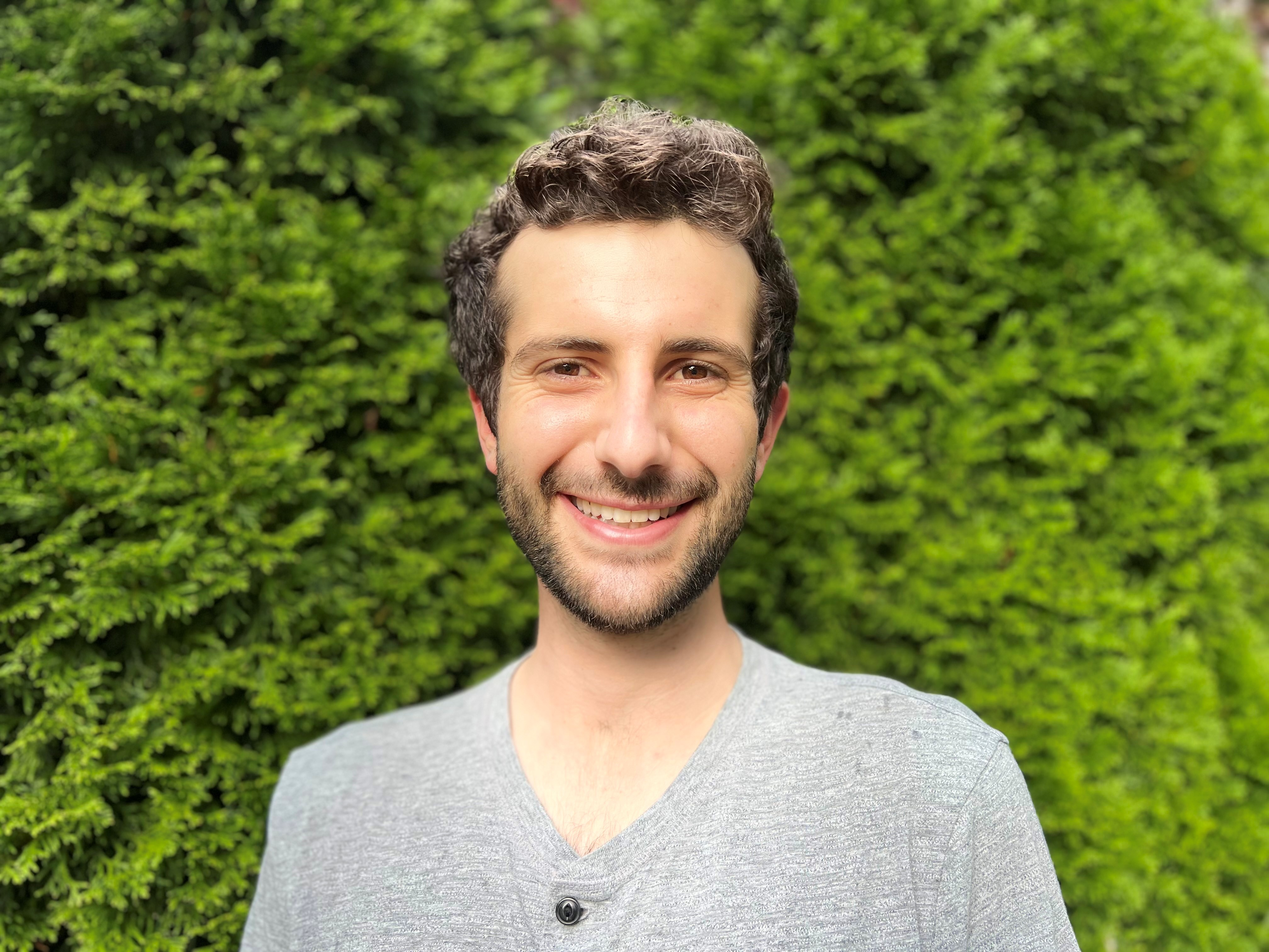
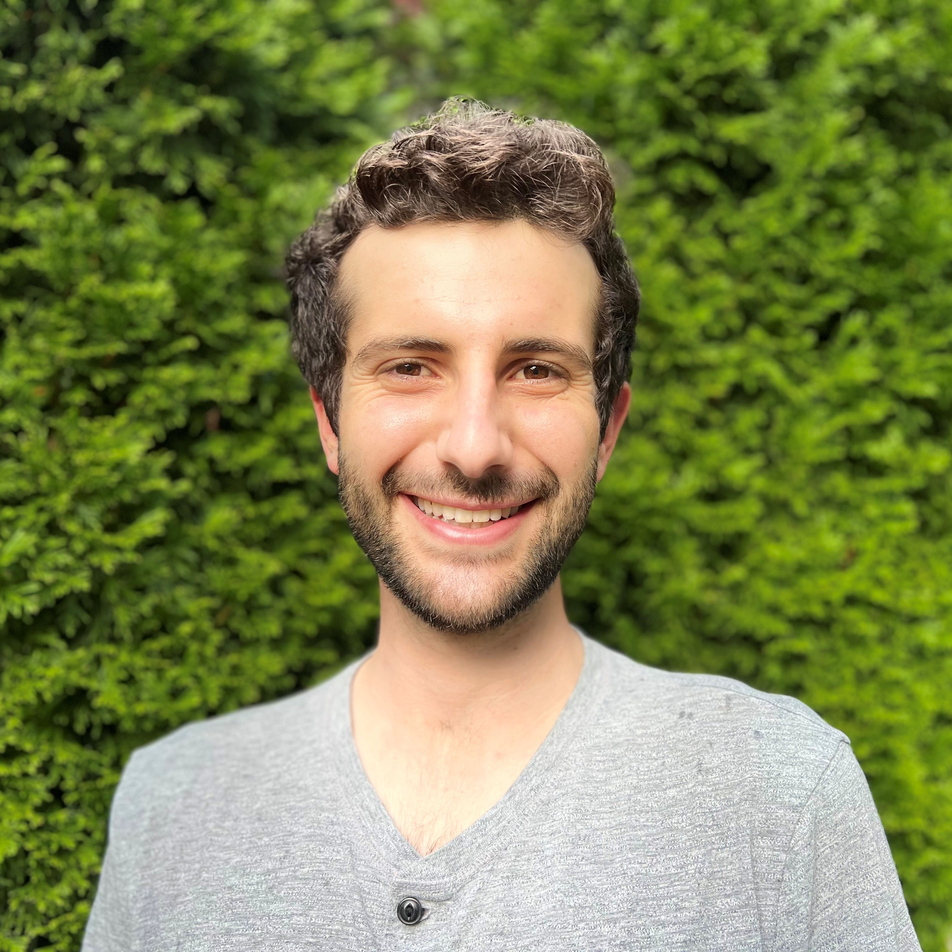
Adding square cropped photos for Victor, Catherine and Zack

diff --git a/_people/9Catherine Gai.md b/_people/9Catherine Gai.md
@@ -2,6 +2,6 @@
 layout: post
 type: "person"
 name: "Catherine Gai"
-image-path: "/images/people/photo_Catherine-Gai.jpg"
+image-path: "/images/people/Catherine Gai.jpg"
 website: "https://www.linkedin.com/in/siyu-catherine-gai-6334b1192"
 ---
